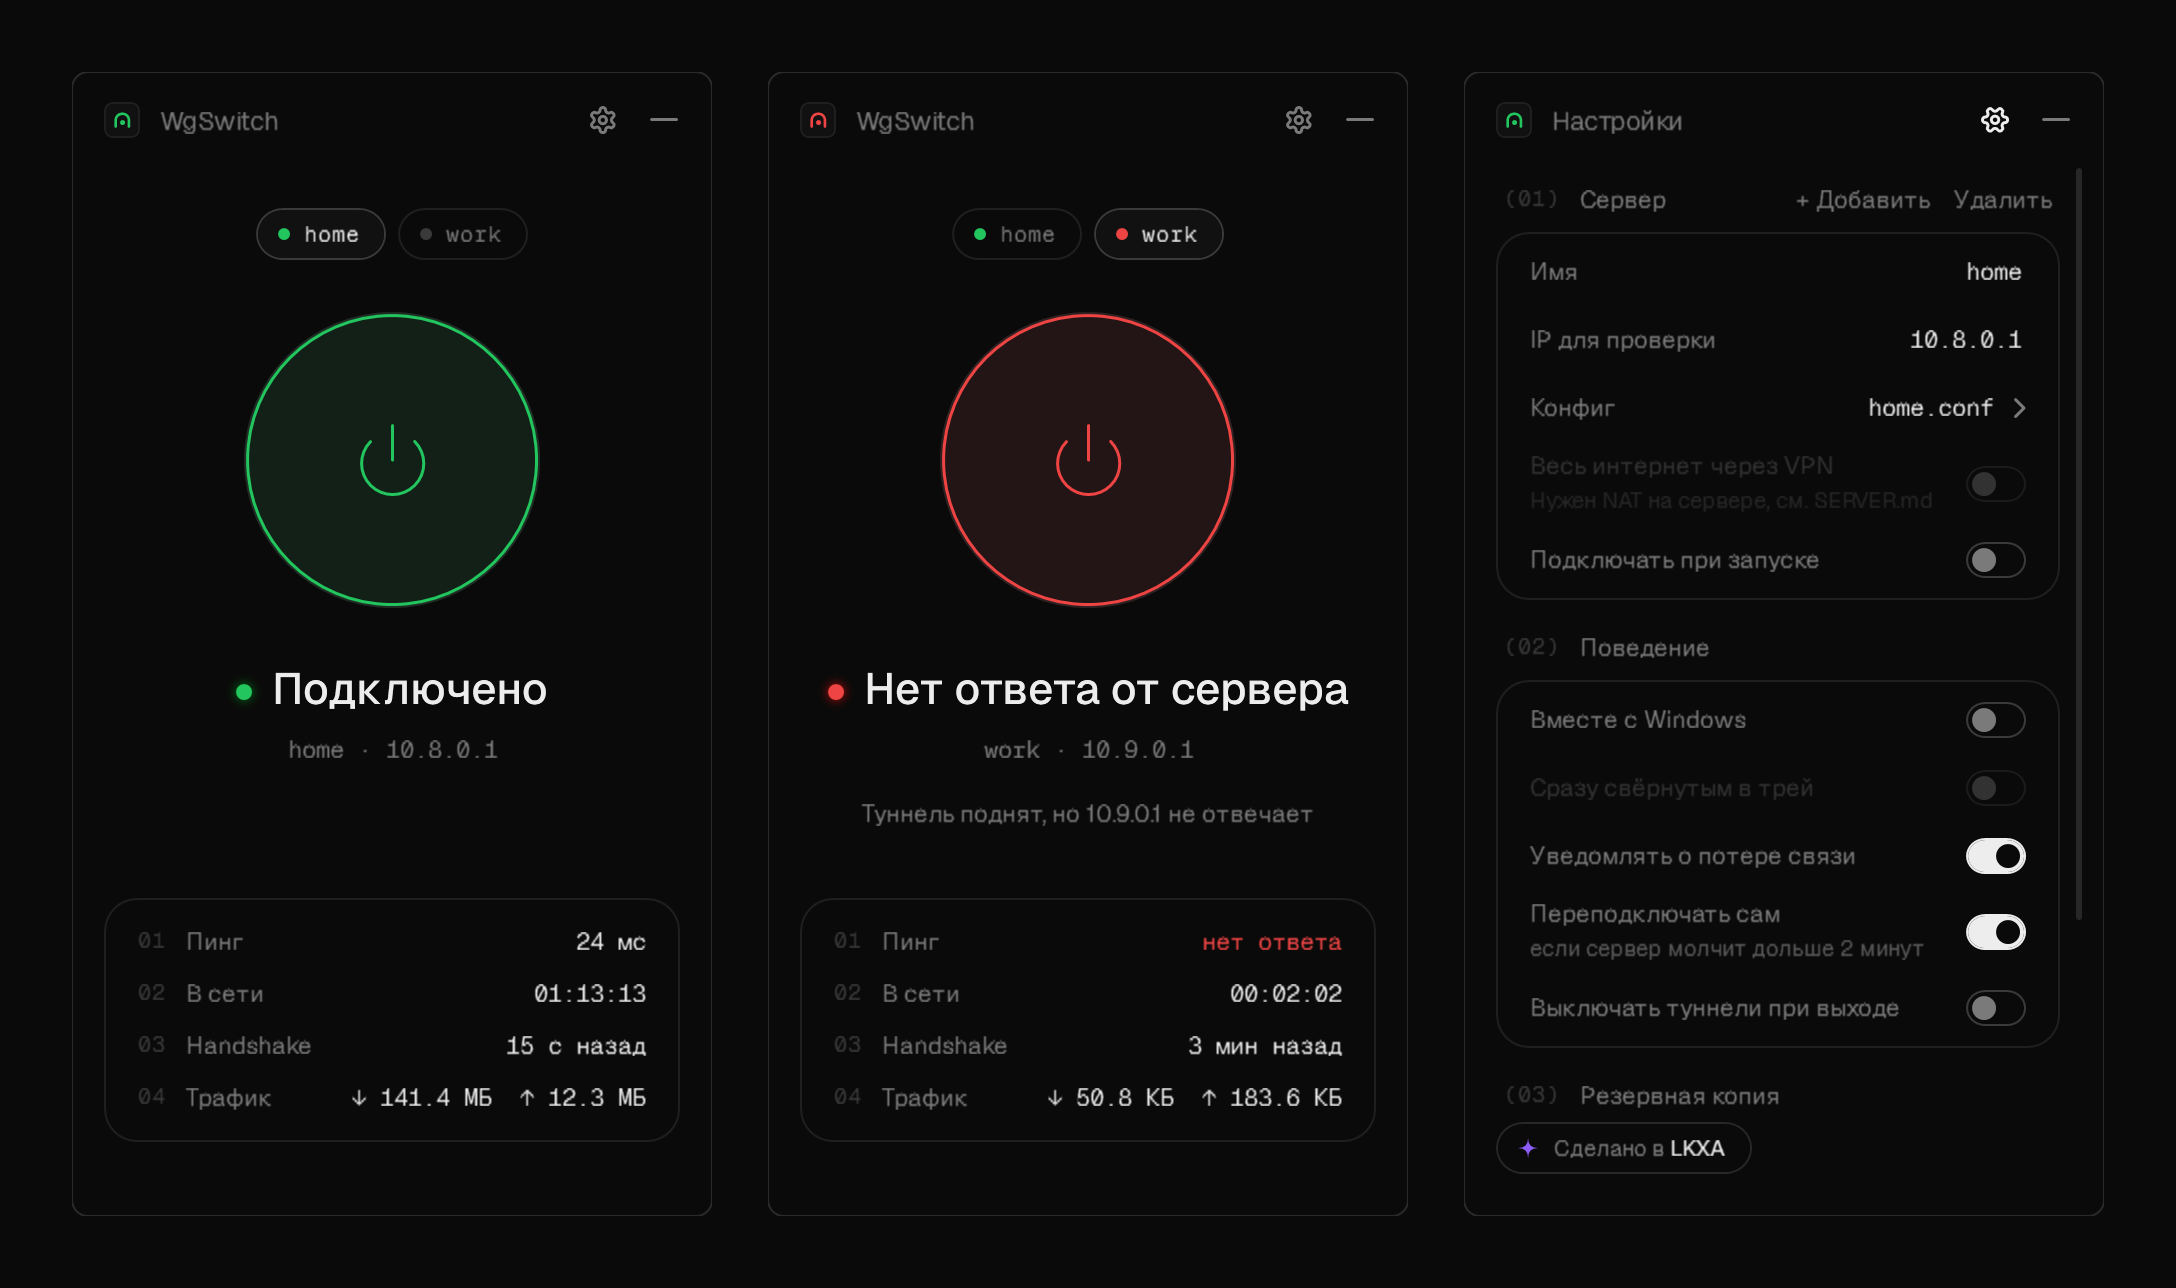
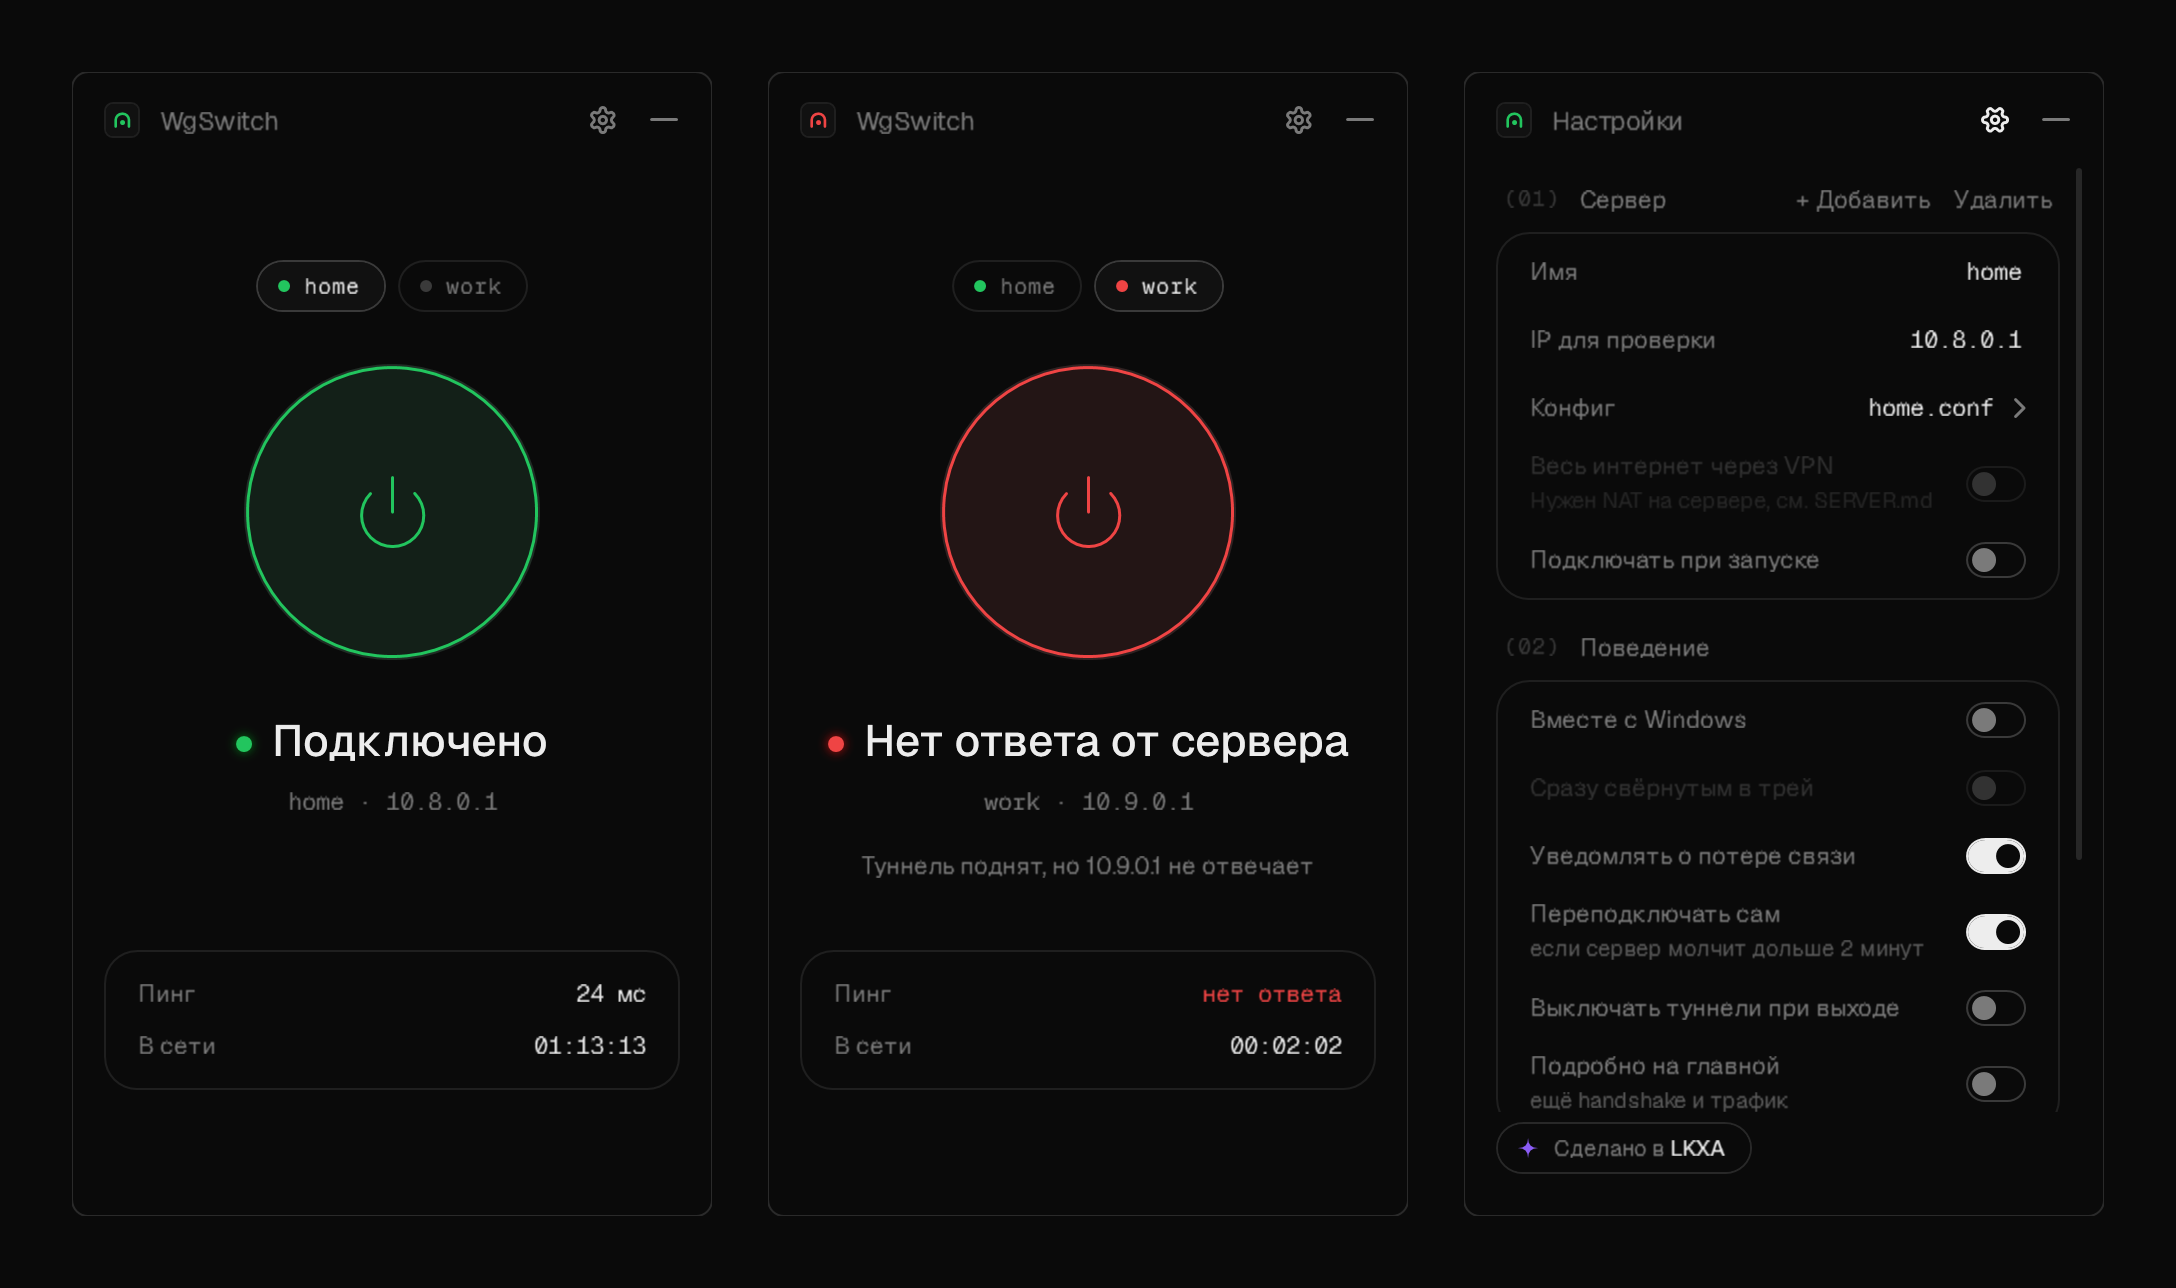
Главная: без нумерации, handshake и трафик по тумблеру «Подробно на главной»; версия в настройках — ссылка на репозиторий

diff --git a/MainWindow.xaml b/MainWindow.xaml
@@ -136,20 +136,27 @@
 
                     <!-- карточка статуса: IP уже есть под статусом, здесь только то, что меняется -->
                     <Border Margin="0,16,0,0" CornerRadius="16" BorderBrush="{StaticResource Line}" BorderThickness="1" Padding="16,8">
-                        <Grid>
-                            <Grid.RowDefinitions>
-                                <RowDefinition Height="26" /><RowDefinition Height="26" /><RowDefinition Height="26" /><RowDefinition Height="26" />
-                            </Grid.RowDefinitions>
-                            <StackPanel Orientation="Horizontal" VerticalAlignment="Center"><TextBlock Style="{StaticResource Index}" Text="01" /><TextBlock Style="{StaticResource Label}" Text="Пинг" /></StackPanel>
-                            <StackPanel Grid.Row="1" Orientation="Horizontal" VerticalAlignment="Center"><TextBlock Style="{StaticResource Index}" Text="02" /><TextBlock Style="{StaticResource Label}" Text="В сети" /></StackPanel>
-                            <StackPanel Grid.Row="2" Orientation="Horizontal" VerticalAlignment="Center"><TextBlock Style="{StaticResource Index}" Text="03" /><TextBlock Style="{StaticResource Label}" Text="Handshake" /></StackPanel>
-                            <StackPanel Grid.Row="3" Orientation="Horizontal" VerticalAlignment="Center"><TextBlock Style="{StaticResource Index}" Text="04" /><TextBlock Style="{StaticResource Label}" Text="Трафик" /></StackPanel>
-
-                            <TextBlock x:Name="PingValue" Style="{StaticResource Copyable}" MouseLeftButtonUp="CopyValue_MouseUp" VerticalAlignment="Center" />
-                            <TextBlock x:Name="UptimeValue" Grid.Row="1" Style="{StaticResource Copyable}" MouseLeftButtonUp="CopyValue_MouseUp" VerticalAlignment="Center" />
-                            <TextBlock x:Name="HandshakeValue" Grid.Row="2" Style="{StaticResource Copyable}" MouseLeftButtonUp="CopyValue_MouseUp" VerticalAlignment="Center" />
-                            <TextBlock x:Name="TrafficValue" Grid.Row="3" Style="{StaticResource Copyable}" MouseLeftButtonUp="CopyValue_MouseUp" VerticalAlignment="Center" />
-                        </Grid>
+                        <StackPanel>
+                            <Grid Height="26">
+                                <TextBlock Style="{StaticResource Label}" Text="Пинг" VerticalAlignment="Center" />
+                                <TextBlock x:Name="PingValue" Style="{StaticResource Copyable}" MouseLeftButtonUp="CopyValue_MouseUp" VerticalAlignment="Center" />
+                            </Grid>
+                            <Grid Height="26">
+                                <TextBlock Style="{StaticResource Label}" Text="В сети" VerticalAlignment="Center" />
+                                <TextBlock x:Name="UptimeValue" Style="{StaticResource Copyable}" MouseLeftButtonUp="CopyValue_MouseUp" VerticalAlignment="Center" />
+                            </Grid>
+                            <!-- подробности: настройки → «Подробно на главной» -->
+                            <StackPanel x:Name="DetailRows" Visibility="Collapsed">
+                                <Grid Height="26">
+                                    <TextBlock Style="{StaticResource Label}" Text="Handshake" VerticalAlignment="Center" />
+                                    <TextBlock x:Name="HandshakeValue" Style="{StaticResource Copyable}" MouseLeftButtonUp="CopyValue_MouseUp" VerticalAlignment="Center" />
+                                </Grid>
+                                <Grid Height="26">
+                                    <TextBlock Style="{StaticResource Label}" Text="Трафик" VerticalAlignment="Center" />
+                                    <TextBlock x:Name="TrafficValue" Style="{StaticResource Copyable}" MouseLeftButtonUp="CopyValue_MouseUp" VerticalAlignment="Center" />
+                                </Grid>
+                            </StackPanel>
+                        </StackPanel>
                     </Border>
                 </StackPanel>
             </Grid>
@@ -224,6 +231,12 @@
                                 </StackPanel>
                             </CheckBox>
                             <CheckBox x:Name="ExitOffBox" Style="{StaticResource Toggle}" Content="Выключать туннели при выходе" />
+                            <CheckBox x:Name="DetailsBox" Style="{StaticResource Toggle}" MinHeight="42">
+                                <StackPanel>
+                                    <TextBlock Text="Подробно на главной" />
+                                    <TextBlock Style="{StaticResource Hint}" Margin="0,2,0,0" Text="ещё handshake и трафик" />
+                                </StackPanel>
+                            </CheckBox>
                         </StackPanel>
                     </Border>
 
@@ -254,8 +267,10 @@
                         </StackPanel>
                     </Border>
 
-                    <TextBlock x:Name="VersionText" Style="{StaticResource Hint}" Margin="4,16,4,0" HorizontalAlignment="Center"
-                               FontFamily="{StaticResource Mono}" />
+                    <Button Style="{StaticResource TextButton}" HorizontalAlignment="Center" Height="28" Margin="4,12,4,0"
+                            Click="Repo_Click" ToolTip="github.com/lolkekxa/WgSwitch">
+                        <TextBlock x:Name="VersionText" FontFamily="{StaticResource Mono}" FontSize="11" />
+                    </Button>
                 </StackPanel>
                 </ScrollViewer>
 

diff --git a/MainWindow.xaml.cs b/MainWindow.xaml.cs
@@ -39,7 +39,8 @@ public partial class MainWindow : Window
         _status = wg.StatusOf(_selected);
         InitializeComponent();
         WatchSettings();
-        VersionText.Text = $"WgSwitch {SettingsService.Version}";
+        VersionText.Text = $"WgSwitch {SettingsService.Version} ↗";
+        ApplyDetails();
 
         // как всплывающие окна трея: правый нижний угол рабочей области (над панелью задач, где бы она ни была)
         var area = SystemParameters.WorkArea;
@@ -439,6 +440,7 @@ public partial class MainWindow : Window
             NotifyBox.IsChecked = c.Notify;
             ReconnectBox.IsChecked = c.AutoReconnect;
             ExitOffBox.IsChecked = c.DisconnectOnExit;
+            DetailsBox.IsChecked = c.ShowDetails;
             MinimizedBox.IsEnabled = c.AutoStart;
             ShowFullTunnel(server?.ConfigPath);
             SettingsError.Text = "";
@@ -473,13 +475,13 @@ public partial class MainWindow : Window
     private string SettingsState() => string.Join("\u001f",
         NameBox.Text.Trim(), PingBox.Text.Trim(), ConfigPath,
         AutoStartBox.IsChecked, MinimizedBox.IsChecked, AutoConnectBox.IsChecked, FullTunnelSetting.IsChecked,
-        NotifyBox.IsChecked, ReconnectBox.IsChecked, ExitOffBox.IsChecked);
+        NotifyBox.IsChecked, ReconnectBox.IsChecked, ExitOffBox.IsChecked, DetailsBox.IsChecked);
 
     private void WatchSettings()
     {
         foreach (var box in new[] { NameBox, PingBox })
             box.TextChanged += (_, _) => UpdateDirty();
-        foreach (var cb in new[] { AutoStartBox, MinimizedBox, AutoConnectBox, FullTunnelSetting, NotifyBox, ReconnectBox, ExitOffBox })
+        foreach (var cb in new[] { AutoStartBox, MinimizedBox, AutoConnectBox, FullTunnelSetting, NotifyBox, ReconnectBox, ExitOffBox, DetailsBox })
         {
             cb.Checked += (_, _) => UpdateDirty();
             cb.Unchecked += (_, _) => UpdateDirty();
@@ -639,6 +641,7 @@ public partial class MainWindow : Window
         next.Notify = NotifyBox.IsChecked == true;
         next.AutoReconnect = ReconnectBox.IsChecked == true;
         next.DisconnectOnExit = ExitOffBox.IsChecked == true;
+        next.ShowDetails = DetailsBox.IsChecked == true;
 
         try
         {
@@ -656,6 +659,7 @@ public partial class MainWindow : Window
         _selected = name;
         _wg.Sync();
         RebuildChips();
+        ApplyDetails();
         Render(_wg.StatusOf(name), animate: true);
         ShowSettings(false);
 
@@ -943,6 +947,12 @@ public partial class MainWindow : Window
     }
 
     private void Install_Click(object sender, RoutedEventArgs e) => App.OpenUrl(WireGuardService.InstallUrl);
+
+    private void Repo_Click(object sender, RoutedEventArgs e) => App.OpenUrl(SettingsService.RepoUrl);
+
+    /// <summary>Handshake и трафик на главной — только если включено «Подробно на главной».</summary>
+    private void ApplyDetails() =>
+        DetailRows.Visibility = _settings.Current.ShowDetails ? Visibility.Visible : Visibility.Collapsed;
 
     private void MadeBy_Click(object sender, RoutedEventArgs e) => App.OpenUrl("https://lkxa.ru/?ref=wgswitch");
 

diff --git a/Services/SettingsService.cs b/Services/SettingsService.cs
@@ -33,6 +33,8 @@ public sealed class AppSettings
     public bool AutoReconnect { get; set; } = true;
     /// <summary>«Выход» из трея выключает все туннели.</summary>
     public bool DisconnectOnExit { get; set; }
+    /// <summary>На главном экране ещё handshake и трафик; без этого — только пинг и время в сети, и wg.exe не запускается.</summary>
+    public bool ShowDetails { get; set; }
 
     // старый общий флаг автоподключения: переносится на выбранный сервер и больше не пишется
     [JsonIgnore(Condition = JsonIgnoreCondition.WhenWritingDefault)] public bool AutoConnect { get; set; }
@@ -56,6 +58,7 @@ internal partial class SettingsJson : JsonSerializerContext;
 public sealed class SettingsService
 {
     public const string AppName = "WgSwitch";
+    public const string RepoUrl = "https://github.com/lolkekxa/WgSwitch";
     private const string TaskName = AppName;
 
     /// <summary>Сюда мастер кладёт созданные конфиги: папка доступна только администраторам и SYSTEM.</summary>

diff --git a/Services/WireGuardService.cs b/Services/WireGuardService.cs
@@ -347,7 +347,8 @@ public sealed partial class WireGuardService : IDisposable
 
         DateTime? handshake = null;
         long? rx = null, tx = null;
-        if (detailed)
+        // handshake и трафик — два запуска wg.exe; нужны, только если их показывают на главной
+        if (detailed && _settings.Current.ShowDetails)
             (handshake, rx, tx) = await ReadWgStatsAsync(t.Name).ConfigureAwait(false);
 
         Publish(t, new TunnelStatus(state, t.Name, rtt, since, handshake, rx, tx, t.Error));

diff --git a/tests/WgSwitch.Tests/SettingsTests.cs b/tests/WgSwitch.Tests/SettingsTests.cs
@@ -34,6 +34,7 @@ public class SettingsTests
         Assert.True(s.Current.Notify);
         Assert.True(s.Current.AutoReconnect);
         Assert.False(s.Current.DisconnectOnExit);
+        Assert.False(s.Current.ShowDetails);   // на главной по умолчанию только пинг и время в сети
     }
 
     [Fact]

diff --git a/README.md b/README.md
@@ -49,9 +49,9 @@ Exe весит около **0.6 МБ**, сторонних библиотек н
     <td width="33%"><img src="docs/readme/settings.png" alt="Настройки" /></td>
   </tr>
   <tr>
-    <td valign="top"><b>Одна кнопка.</b> Цвет состояния — только в тонком кольце и иконке. Ниже пинг, время в сети, последний handshake и трафик; любое значение копируется кликом.</td>
+    <td valign="top"><b>Одна кнопка.</b> Цвет состояния — только в тонком кольце и иконке. Ниже пинг и время в сети, по желанию — handshake и трафик; любое значение копируется кликом.</td>
     <td valign="top"><b>Честный статус.</b> WireGuard показывает «Active», даже когда сервер лёг. WgSwitch пингует сервер внутри туннеля и краснеет, если тот молчит.</td>
-    <td valign="top"><b>Настройки.</b> Имя, IP для проверки, путь к конфигу, режим «весь интернет через VPN», автозапуск, запуск свёрнутым в трей, автоподключение и резервная копия.</td>
+    <td valign="top"><b>Настройки.</b> Имя, IP для проверки, путь к конфигу, режим «весь интернет через VPN», подробности на главной, автозапуск, запуск свёрнутым в трей, автоподключение и резервная копия.</td>
   </tr>
   <tr>
     <td><img src="docs/readme/setup-2.png" alt="Мастер: данные сервера" /></td>

diff --git a/CHANGELOG.md b/CHANGELOG.md
@@ -3,6 +3,14 @@
 Формат: [Keep a Changelog](https://keepachangelog.com/ru/1.1.0/), версии — [SemVer](https://semver.org/lang/ru/).
 Раздел нужной версии попадает в описание релиза на GitHub.
 
+## [Unreleased]
+
+### Изменено
+- На главной по умолчанию только пинг и время в сети; handshake и трафик — по тумблеру «Подробно на главной».
+  Пока он выключен, программа не запускает `wg.exe` за этой статистикой.
+- Без нумерации строк в карточке на главной.
+- Версия внизу настроек — ссылка на репозиторий.
+
 ## [1.0.0] — 2026-10-28
 
 Первый релиз.
